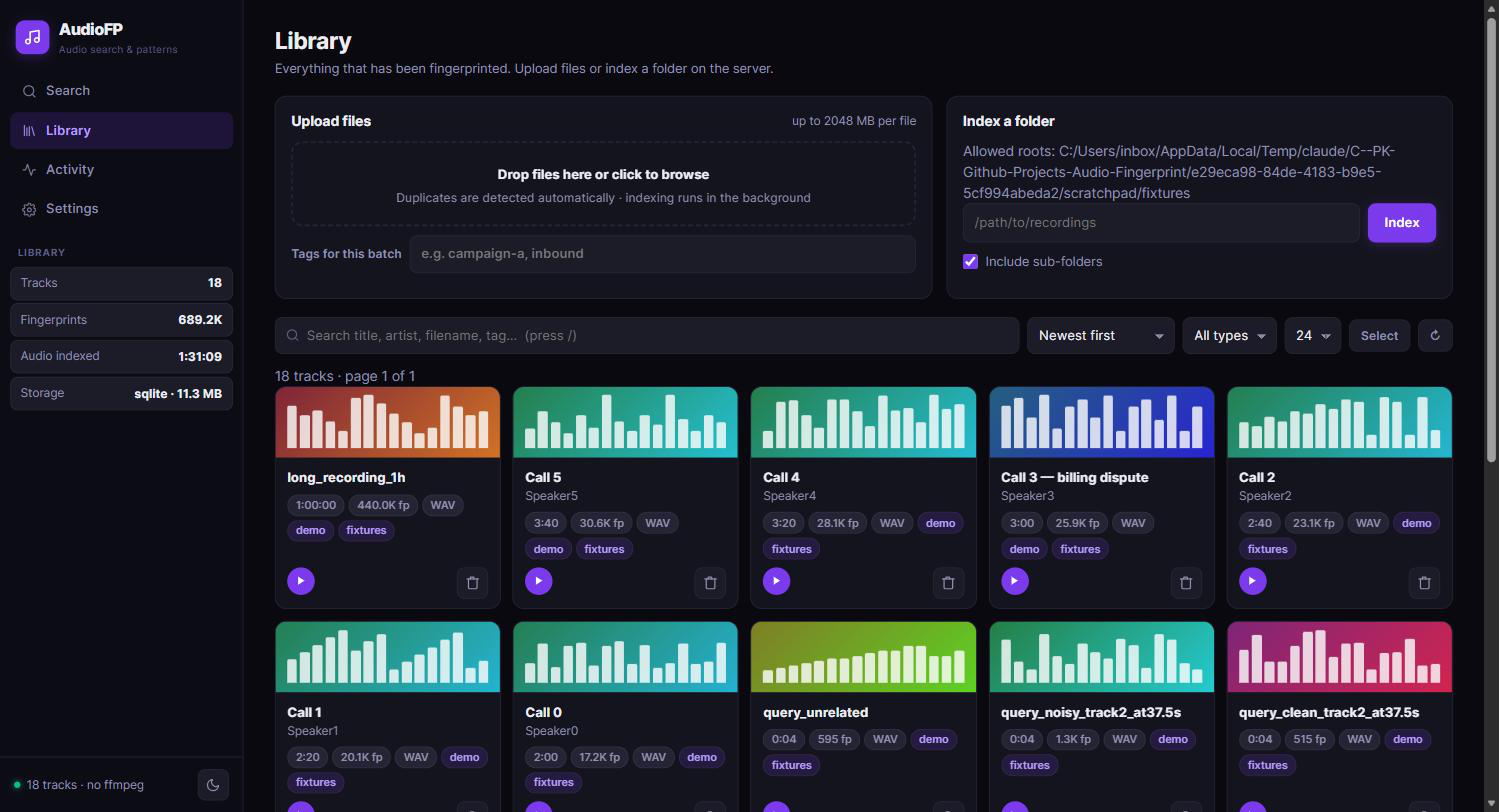
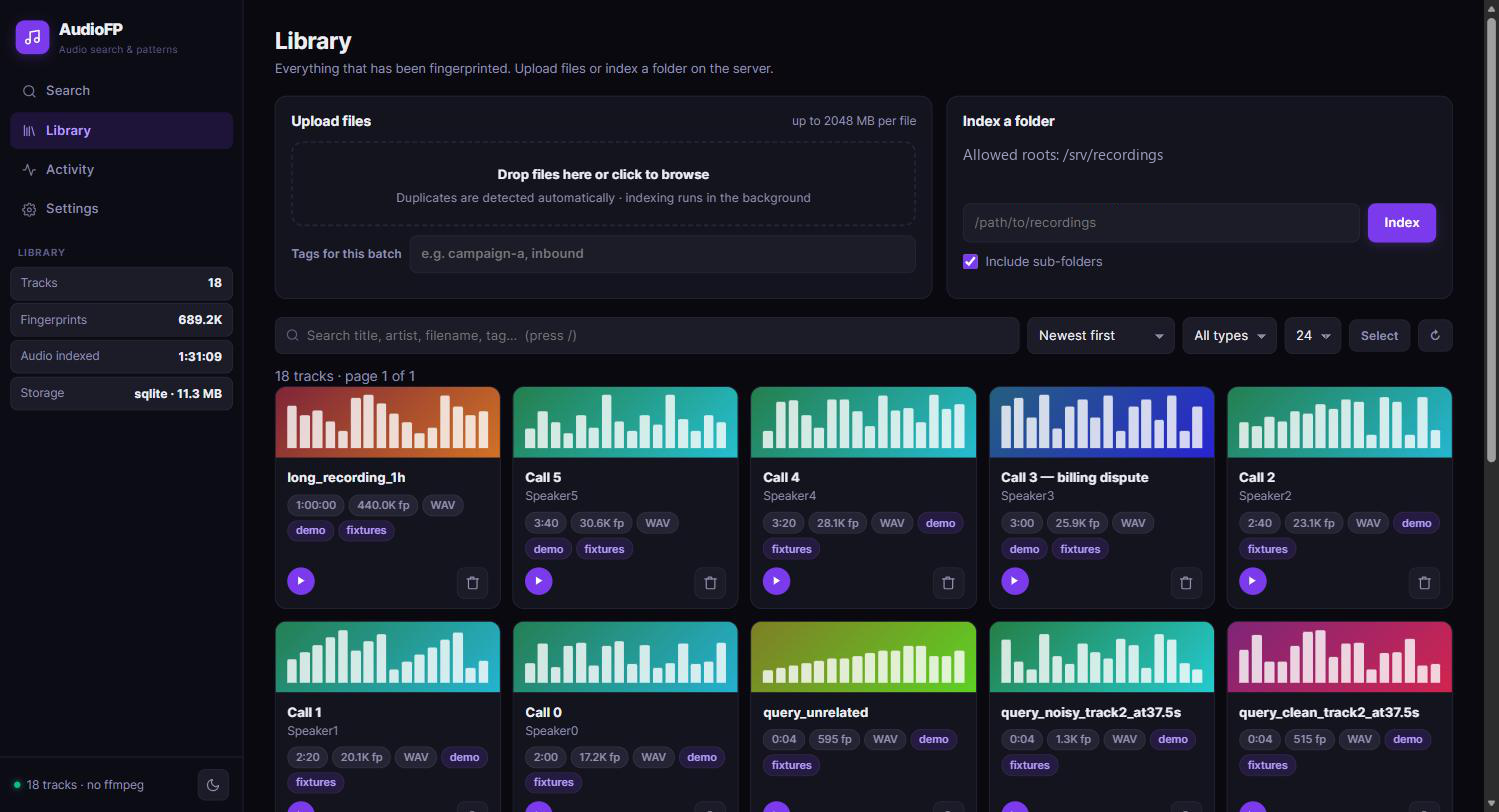
Show the library page in the README and remove a local path from the screenshots

Changed region(s): [[0.6444, 0.1847, 0.9206, 0.2463]]

diff --git a/README.md b/README.md
@@ -51,6 +51,13 @@ audiofp stats
 
 Or open the web UI, drop a file in (or record from the microphone), pick a search mode and play any match from the exact spot it was found.
 
+<p align="center">
+  <picture>
+    <source media="(prefers-color-scheme: dark)" srcset="assets/Audio-Library-Dark.png">
+    <img src="assets/Audio-Library-Light.png" alt="The library page with uploads, folder indexing and tracks" width="800" />
+  </picture>
+</p>
+
 ## The two search modes
 
 | Mode | What you get | Typical use |
